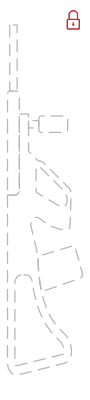
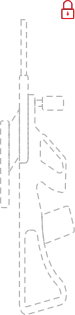
Penambahan button Lamp untuk Aug

diff --git a/py/screens/saver.py b/py/screens/saver.py
@@ -1,5 +1,6 @@
 from PyQt5.QtWidgets import *
 from PyQt5.QtCore import *
+from PyQt5.QtGui import QIcon
 from PyQt5.uic import loadUi
 import geocoder
 import requests, socket
@@ -9,16 +10,28 @@ from db_config import get_db_connection
 class Saver(QMainWindow):
     go_to_login = pyqtSignal()
     
-    def __init__(self, clock_helper):
+    def __init__(self, clock_helper, serial_handler=None):
         super().__init__()
         loadUi("ui2/saverr.ui", self)
-        
+
+        self.serial = serial_handler
+        # Tracking status lampu (False = Mati, True = Menyala)
+        self.is_lamp_on = False
+
+        # Path Ikon (Sesuaikan lokasi/nama file ikon Anda)
+        self.icon_lamp_on = QIcon("assets/icon/lightbulb-solid-full.svg")
+        self.icon_lamp_off = QIcon("assets/icon/lightbulb-regular-full.svg")
+
         # Update jam dari helper pusat
         clock_helper.time_updated.connect(self.update_ui)
         self.btDown.clicked.connect(self.go_to_login.emit)
 
-        # === API KEY (PAKE PUNYA LU YANG UDAH WORK) ===
-        self.api_key = "58d5a389d75bd4647385189bc34c0580"  # ← GANTI SAMA PUNYA LU
+        # Connection event tombol btLamp (jika widget ada di .ui)
+        if hasattr(self, "btLamp"):
+            self.btLamp.clicked.connect(self.toggle_lamp)
+
+        # === API KEY  ===
+        self.api_key = "58d5a389d75bd4647385189bc34c0580"  
 
         # === AMBIL LOKASI OTOMATIS ===
         self.location_data = self.get_location_from_ip()
@@ -38,7 +51,30 @@ class Saver(QMainWindow):
         self.timer_db.timeout.connect(self.update_notif_pending)
         self.timer_db.start(3000)
 
-            
+    def toggle_lamp(self):
+        """Menyediakan toggle ON/OFF dan mengirim perintah ke Arduino."""
+        # Toggle state
+        self.is_lamp_on = not self.is_lamp_on
+
+        # Tentukan command yang dikirim ke Arduino (sesuaikan string command dengan firmware)
+        command = "LAMP ON" if self.is_lamp_on else "LAMP OFF"
+
+        if self.serial:
+        # Mengirim perintah ke Arduino (contoh target: "MAIN_CONTROLLER")
+            self.serial.send_command_to("MAIN_CONTROLLER", command)
+            print(f"Command Lampu Dikirim: {command}")
+        else:
+            print("Serial handler tidak tersedia!")
+
+        # Opsional: Ubah tampilan UI / Style Sheet tombol berdasarkan state lampu
+        if hasattr(self, "btLamp"):
+            if self.is_lamp_on:
+                
+                self.btLamp.setIcon(self.icon_lamp_on)
+            else:
+                self.btLamp.setStyleSheet("")
+                self.btLamp.setIcon(self.icon_lamp_off)
+        
     def update_ui(self, tgl, jam):
         self.lbDate.setText(tgl)
         self.lbTime.setText(jam)

diff --git a/py/main.py b/py/main.py
@@ -83,7 +83,7 @@ class MainApp(QMainWindow):
         }
 
         self.screens = {
-            "saver": Saver(self.clock_helper),
+            "saver": Saver(self.clock_helper,serial_handler=self.serial_handler),
             "login": Login( self.clock_helper, serial_handler=self.serial_handler, gudang=GUDANG,),
             "register": Register(
                 self.clock_helper,
